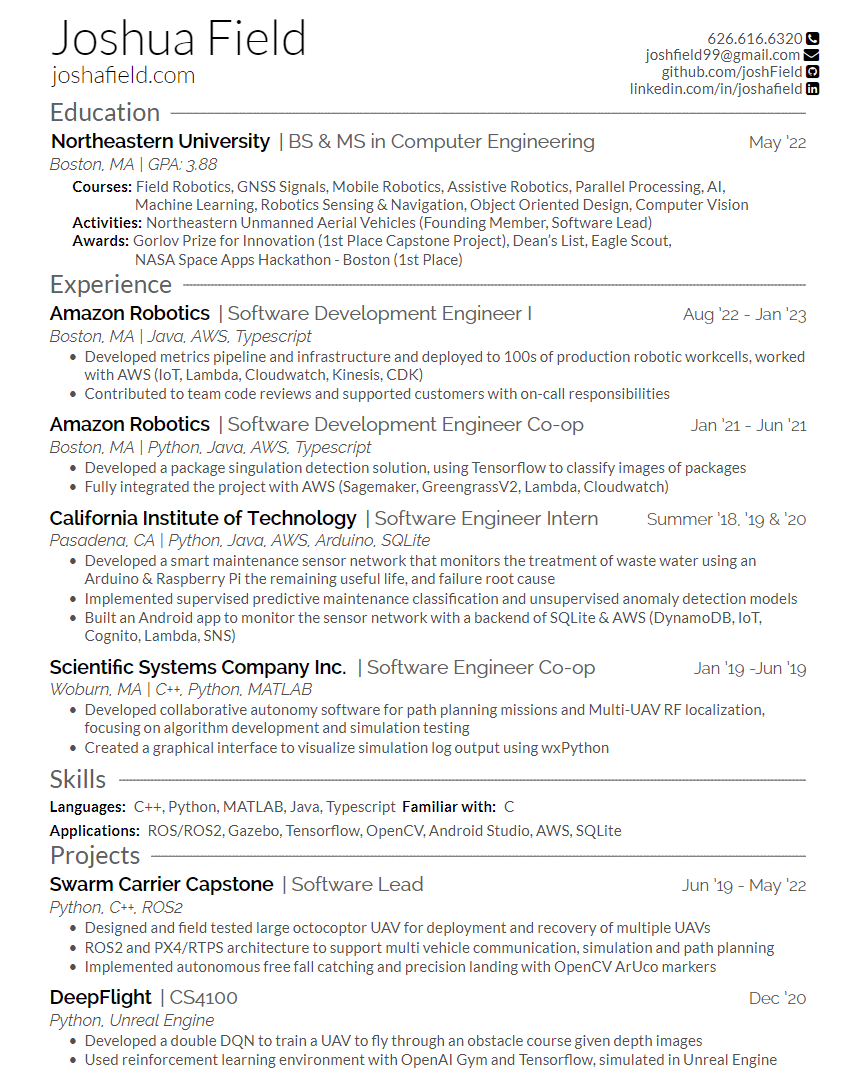
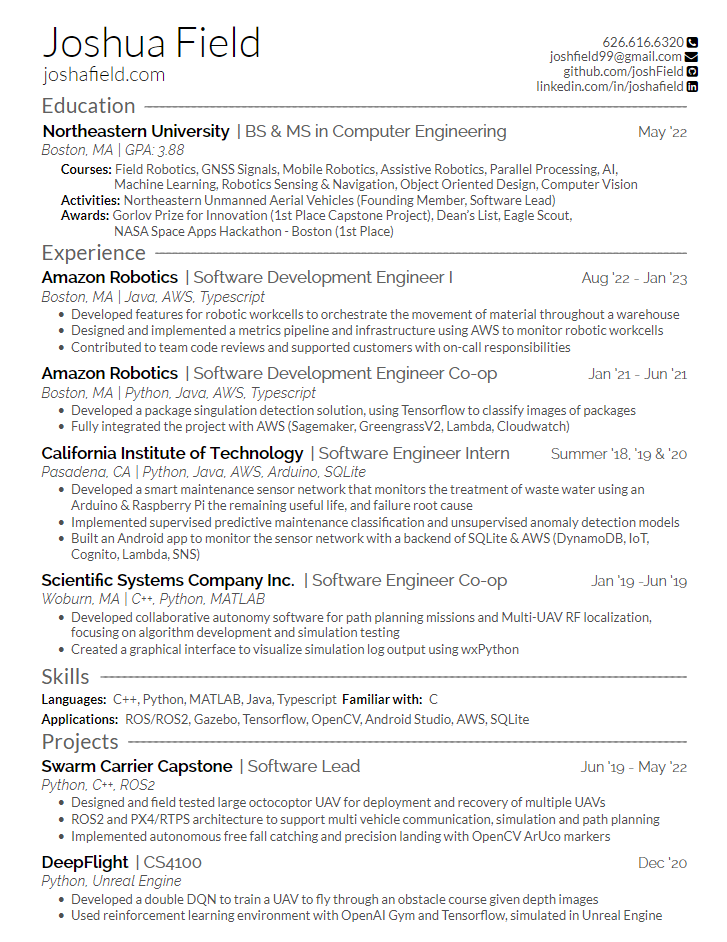
amazon add bullet

Changed region(s): [[0.0605, 0.0, 0.9684, 0.9851]]

diff --git a/resume.tex b/resume.tex
@@ -45,7 +45,8 @@
     \technologies{Boston, MA | Java, AWS, Typescript}
     \begin{tightemize}
         \body{
-        \item Developed metrics pipeline and infrastructure and deployed to 100s of production robotic workcells, worked with AWS (IoT, Lambda, Cloudwatch, Kinesis, CDK)
+        \item Developed features for robotic workcells to orchestrate the movement of material throughout a warehouse
+        \item Designed and implemented a metrics pipeline and infrastructure using AWS to monitor robotic workcells
         \item Contributed to team code reviews and supported customers with on-call responsibilities
         }
     \end{tightemize}
